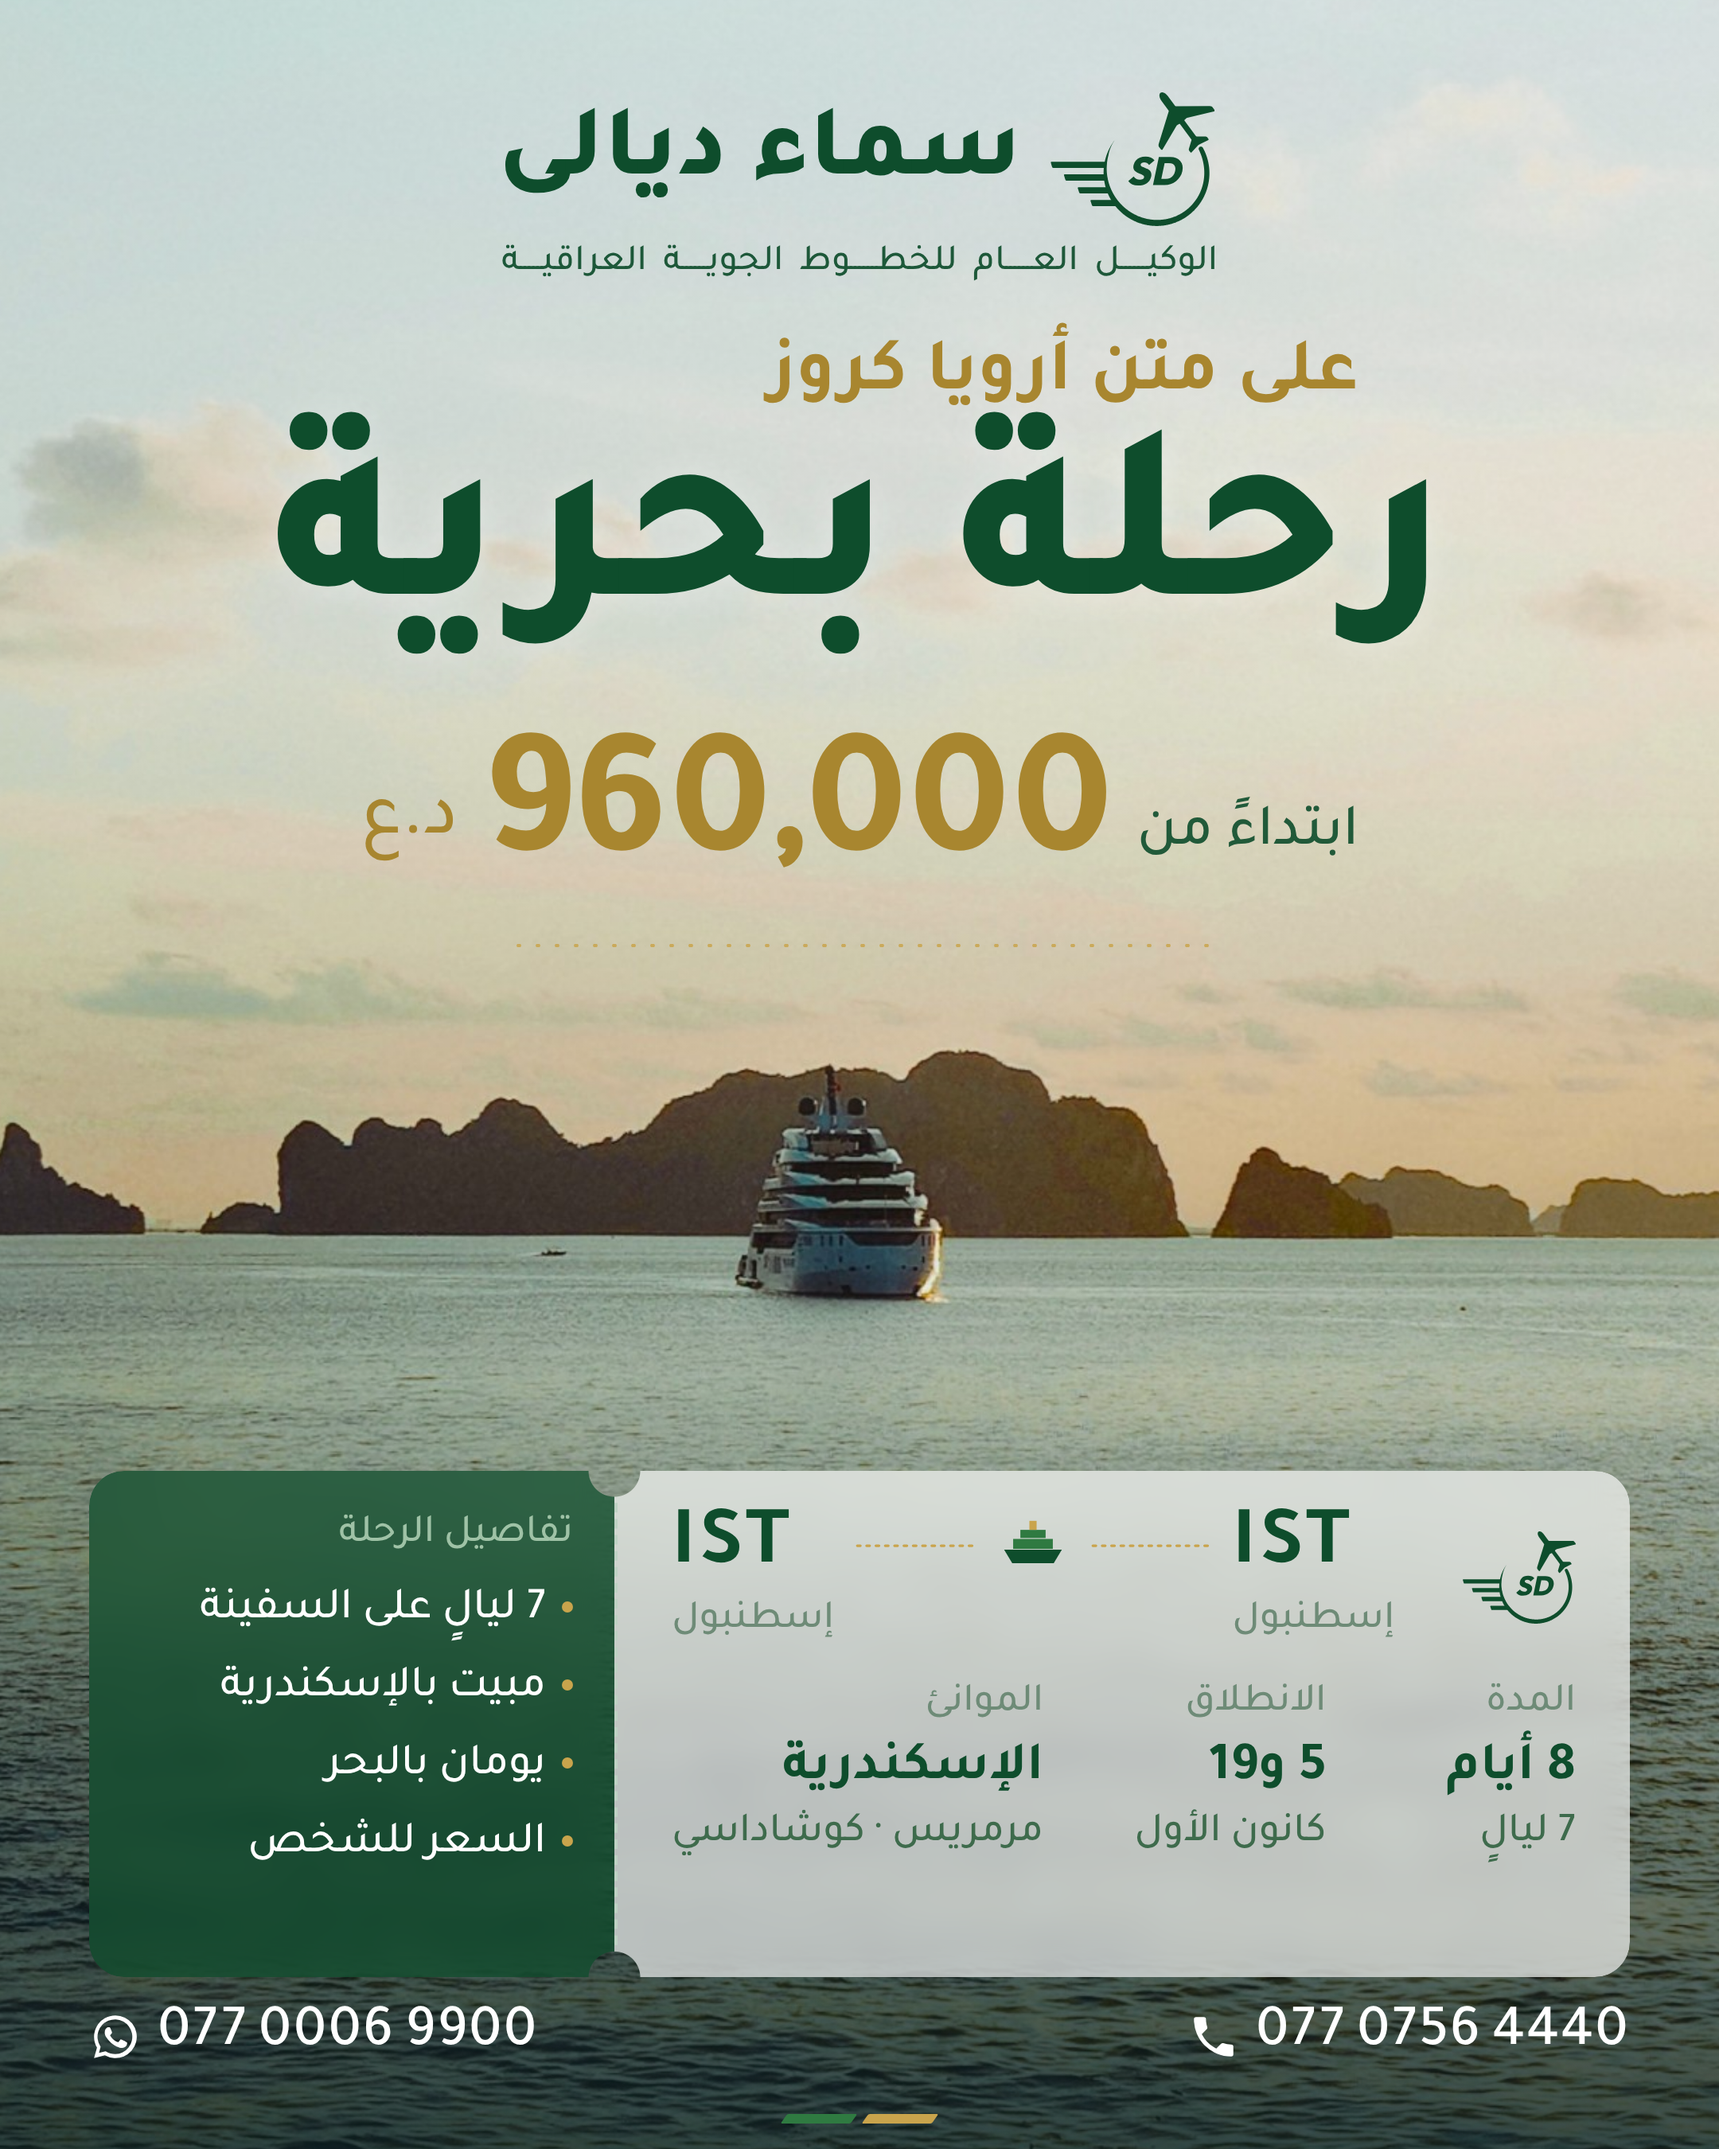
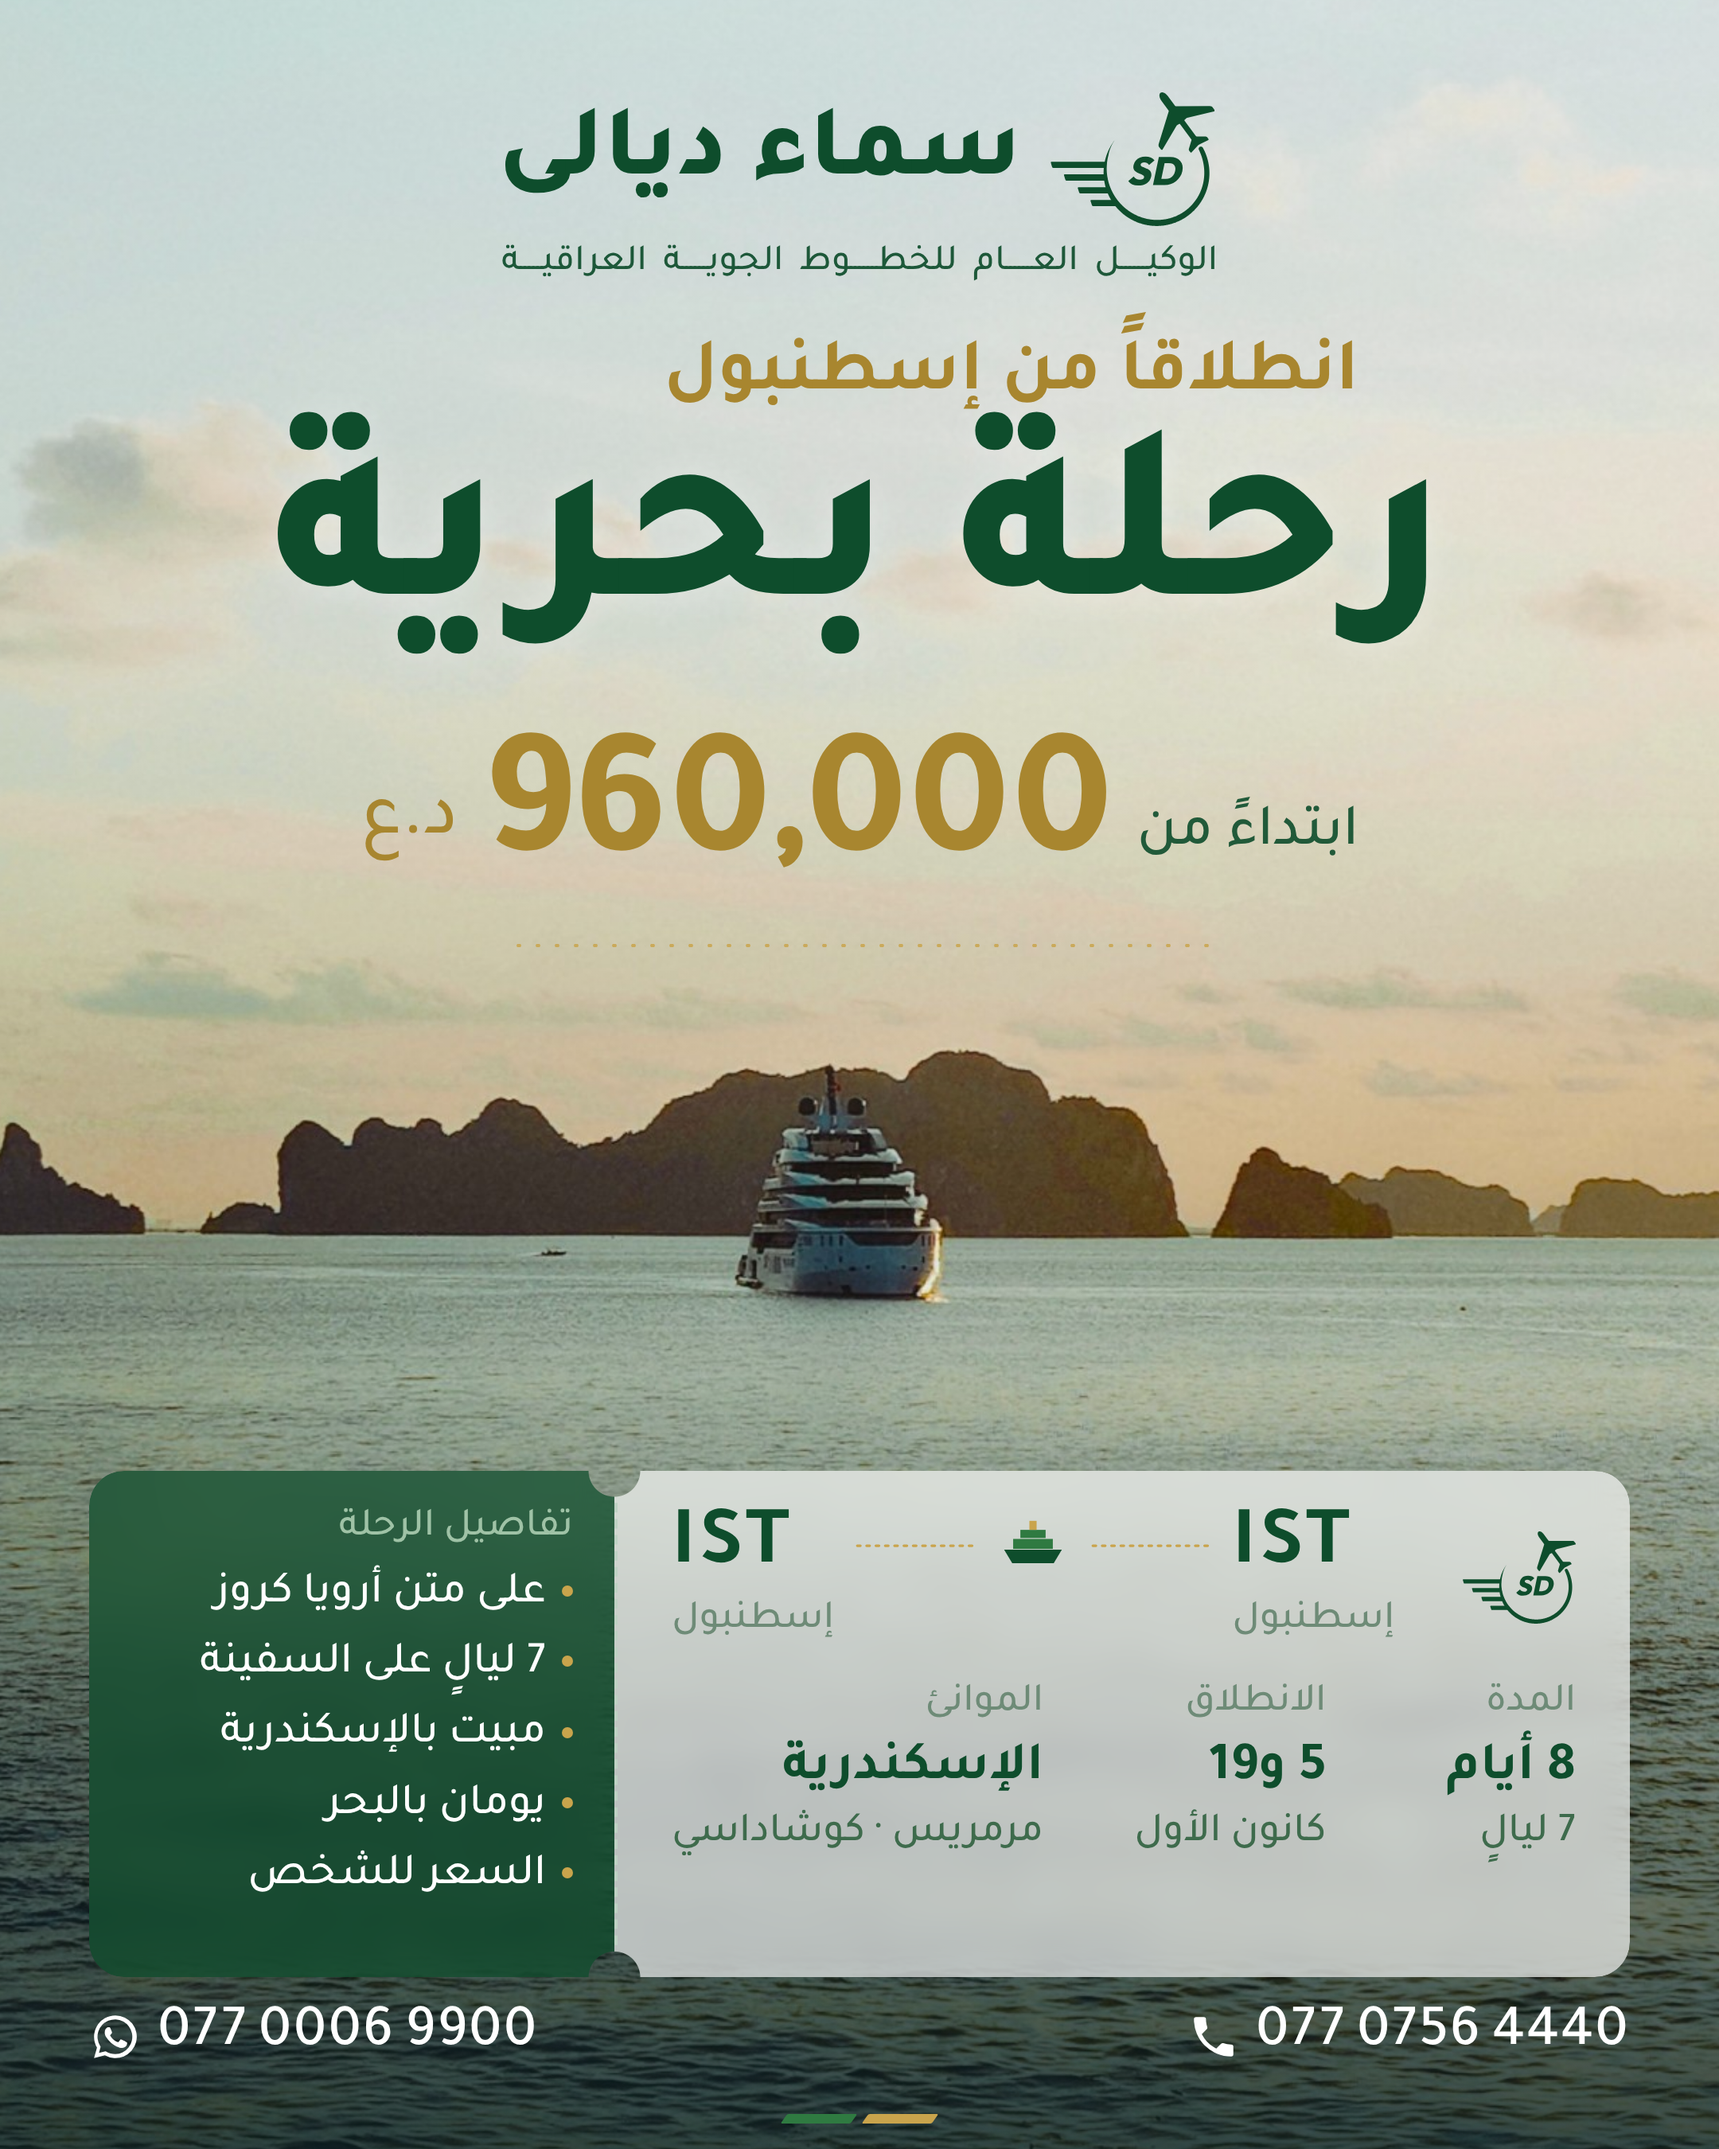
الرحلة البحرية: اسم الكروز في كعب البطاقة الأخضر، والسطر العلوي انطلاقاً من إسطنبول
Claude-Session: https://claude.ai/code/session_01EprWPUJDuKvYHn821imCPv

Changed region(s): [[0.1241, 0.6844, 0.3412, 0.9022], [0.3722, 0.1556, 0.8065, 0.1867]]

diff --git a/09-التصاميم/رحلة بحرية من إسطنبول - نظيف مع بطاقة صعود/إعلان.html b/09-التصاميم/رحلة بحرية من إسطنبول - نظيف مع بطاقة صعود/إعلان.html
@@ -17,7 +17,7 @@
 
 
   :root{
-    --kick-dx:128.45px;
+    --kick-dx:95.3px;
     --green:#0E4D2C; --mid:#2F7A41; --gold:#C9A44C; --light:#E9F2EA; --white:#FFFFFF;
     --ink:#0E4D2C;          /* single logo/text colour, chosen per background */
     --accent:#A8862F;   /* price colour */
@@ -122,8 +122,8 @@
   .f .v .sub{font-size:26px !important;margin-top:2px}
   .fields{margin-top:22px !important}
   .stubx{width:330px !important;padding:22px 26px !important}
-  .stubx .k{margin-bottom:8px !important;margin-top:4px}
-  .stubx ul{font-size:28px !important;line-height:1.75 !important}
+  .stubx .k{margin-bottom:4px !important;margin-top:0}
+  .stubx ul{font-size:28px !important;line-height:1.58 !important}
 </style>
 </head>
 <body>
@@ -141,7 +141,7 @@
       </div>
       <div class="tag" id="tag">الوكيــــــل العــــــام للخطــــــوط الجويــــــة العراقيـــــة</div>
     </div>
-    <div class="kicker">على متن أرويا كروز</div>
+    <div class="kicker">انطلاقاً من إسطنبول</div>
     <div class="dest">رحلة بحرية</div>
     <div class="price">
       <span class="from">ابتداءً من</span>
@@ -176,7 +176,7 @@
     </div>
     <div class="stubx">
       <div class="k">تفاصيل الرحلة</div>
-      <ul><li>7 ليالٍ على السفينة</li><li>مبيت بالإسكندرية</li><li>يومان بالبحر</li><li>السعر للشخص</li></ul>
+      <ul><li>على متن أرويا كروز</li><li>7 ليالٍ على السفينة</li><li>مبيت بالإسكندرية</li><li>يومان بالبحر</li><li>السعر للشخص</li></ul>
     </div>
   </div>
   <div class="stripes"><i></i><i></i></div>

diff --git a/CLAUDE.md b/CLAUDE.md
@@ -83,7 +83,7 @@
 
 - عرض تذاكر "دبي من أربيل" (23 تشرين الثاني 2026، بسعر عرض منافس أعطاه إحسان 299,000 د.ع ذهاب وإياب): `09-التصاميم/دبي من أربيل - نظيف مع بطاقة صعود/`. الصورة المعتمدة برج خليفة عند الغروب (`08-الصور/وجهات/دبي - برج خليفة عند الغروب (الأصل).jpg`) مؤطّرة من الأسفل لتظهر معالم المدينة، ويُقص أعلى البرج (بطلب إحسان)، وتظليل بنفسجي داكن أعلى الصورة يجعل السعر الذهبي واضحاً بلا حد، وبين "دبي" والسعر مسافة 34px. ترويسة بيضاء وسطر علوي ذهبي. نسختا مرسى دبي (`إعلان - مرسى دبي.html`) والكولاج بصورتين (`إعلان - كولاج صورتين.html`) محفوظتان. السطر فوق الوجهة "أربيل – دبي – أربيل"، والمسار في البطاقة EBL ← DXB ← EBL، والكعب "ذهاب وإياب" و"أربيل – دبي – أربيل"، والخطوط مكبّرة في كل الإعلان عدا الترويسة المقاسة. فيه رقمان: 077 0006 9900 بواتساب يساراً، و077 0756 4440 بأيقونة هاتف يميناً (بلا +964). والستوري 1080×1920 بخط تجوال: `09-التصاميم/دبي من أربيل - ستوري/` (الصورة تغطي الإطار من الأسفل، والترويسة top:230، والبطاقة bottom:340، والرقمان bottom:268).
 
-- رحلة بحرية من إسطنبول (24 تشرين الثاني 2026): `09-التصاميم/رحلة بحرية من إسطنبول - نظيف مع بطاقة صعود/` (فيه ملفا المصدر: خط السير وأسعار الكابينات بالدولار، والأسعار للكابينة كاملة لا للشخص، وعنوان ملف الأسعار فيه B2B). سفينة أرويا، 8 أيام / 7 ليالٍ: إسطنبول، يوم بالبحر، الإسكندرية (مبيت)، مرمريس، كوشاداسي، يوم بالبحر، إسطنبول. السعر بطلب إحسان: أقل كابينة لشخصين (داخلية 1,066$) ÷ 2 = 533$، + 30$ = 563$ × 1,710 = 962,730، وقرّبه إحسان إلى 960,000 د.ع للشخص (رحلات 5 و19 كانون الأول؛ رحلة 28 تشرين الثاني بالسعر نفسه لم تُذكر لقربها). الصورة يخت بين جزر خليج ها لونغ (فيتنام) عند الغروب، وكتب السطر العلوي "على متن أرويا كروز" بطلب إحسان رغم أن السفينة في الصورة ليست أرويا. ترويسة خضراء وسعر بالذهبي الغامق.
+- رحلة بحرية من إسطنبول (24 تشرين الثاني 2026): `09-التصاميم/رحلة بحرية من إسطنبول - نظيف مع بطاقة صعود/` (فيه ملفا المصدر: خط السير وأسعار الكابينات بالدولار، والأسعار للكابينة كاملة لا للشخص، وعنوان ملف الأسعار فيه B2B). سفينة أرويا، 8 أيام / 7 ليالٍ: إسطنبول، يوم بالبحر، الإسكندرية (مبيت)، مرمريس، كوشاداسي، يوم بالبحر، إسطنبول. السعر بطلب إحسان: أقل كابينة لشخصين (داخلية 1,066$) ÷ 2 = 533$، + 30$ = 563$ × 1,710 = 962,730، وقرّبه إحسان إلى 960,000 د.ع للشخص (رحلات 5 و19 كانون الأول؛ رحلة 28 تشرين الثاني بالسعر نفسه لم تُذكر لقربها). الصورة يخت بين جزر خليج ها لونغ (فيتنام) عند الغروب، واسم الكروز "على متن أرويا كروز" في كعب البطاقة الأخضر (بطلب إحسان)، والسطر العلوي "انطلاقاً من إسطنبول". ترويسة خضراء وسعر بالذهبي الغامق.
 
 ## التسليم (من 19 تشرين الثاني 2026)
 - المعتمد للنشر: صور PNG عالية الجودة (2160×2700). بعد كل تصميم أو تعديل تُنسخ تلقائياً إلى `13-جاهز-للنشر/` باسم العرض (مثل "الأردن رأس السنة.png")، وتُرسل الصورة لإحسان.
